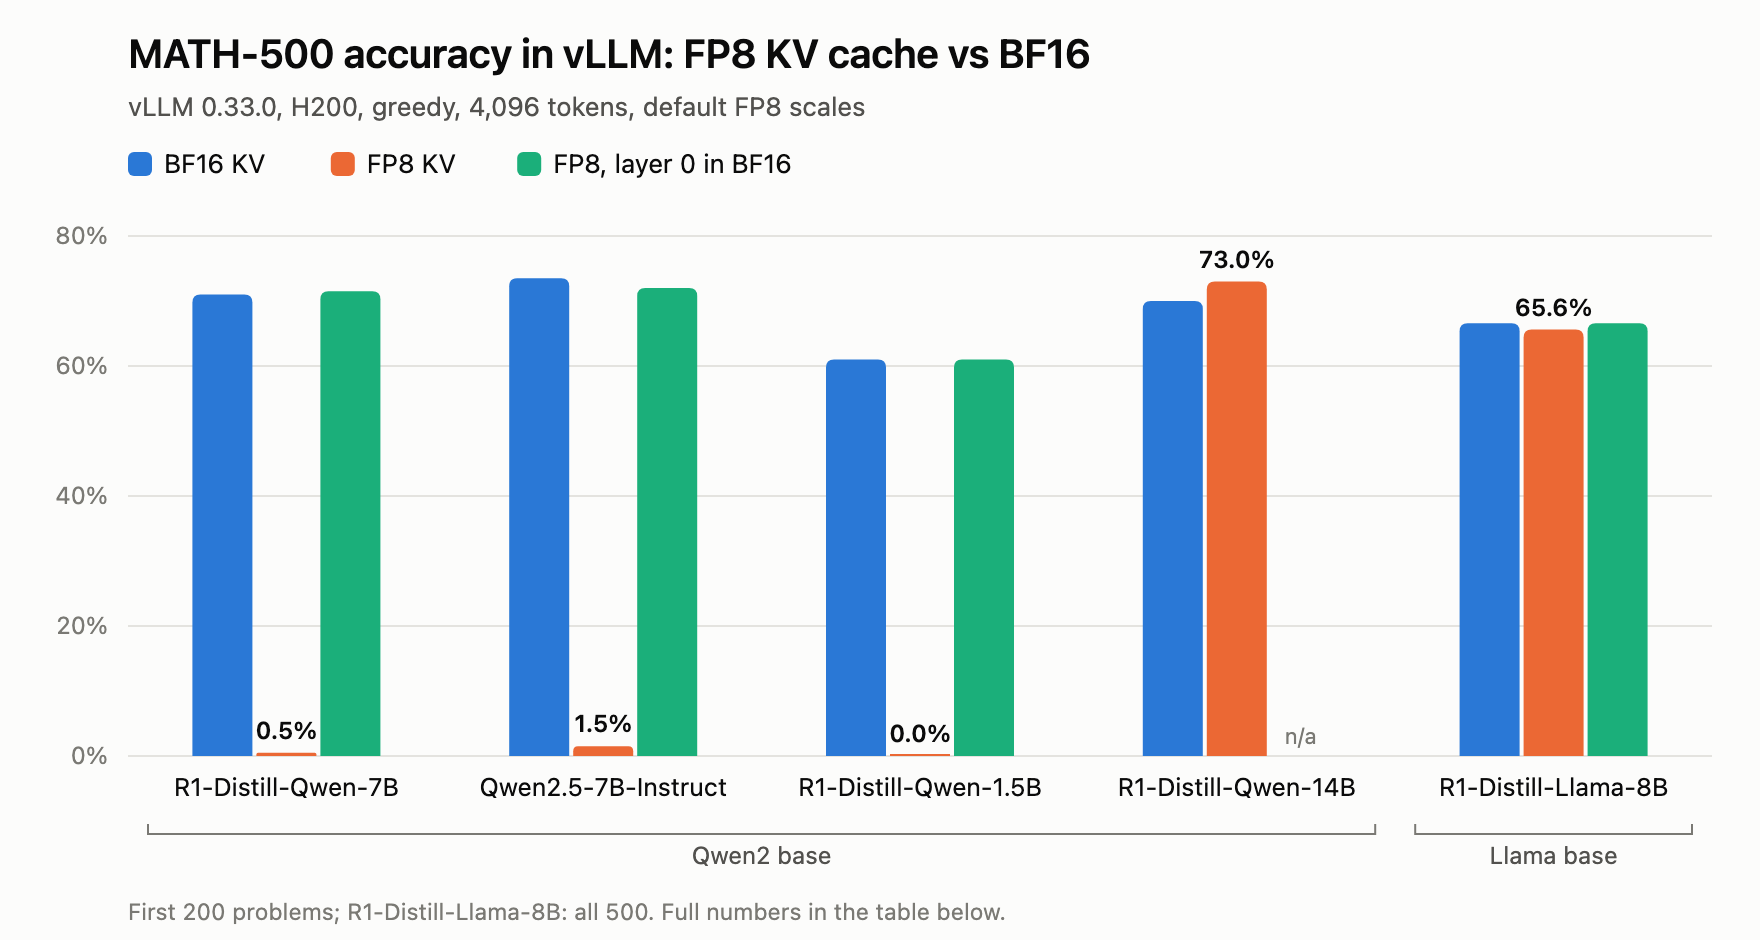
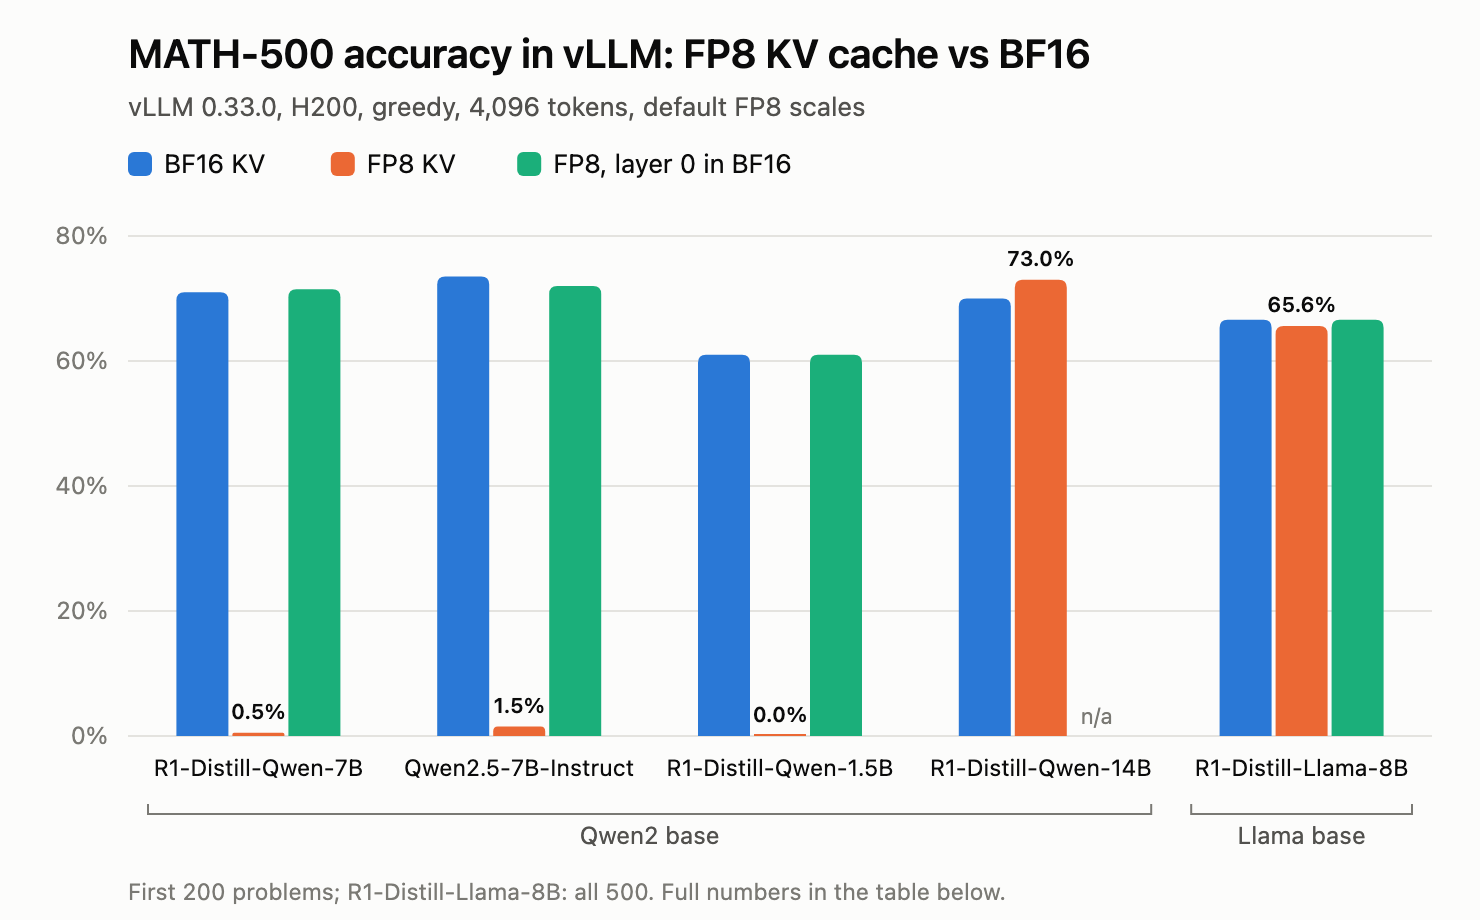
Chart at content width (1:1), smaller value labels

diff --git a/_tools/chart.py b/_tools/chart.py
@@ -22,11 +22,11 @@ TEXT = {
 }
 COLORS = ["#2a78d6", "#eb6834", "#1baf7a"]  # dataviz reference palette, slots 1-3 (validated, light)
 SURF, T1, T2, T3, GRID = "#fcfcfb", "#0b0b0b", "#52514e", "#7a7974", "#e4e3df"
-W, H = 880, 470
+W, H = 740, 460
 L, R, TOP, BOT = 64, 24, 118, 92
 PW, PH = W - L - R, H - TOP - BOT
 YMAX = 80
-BW, GAP = 30, 2
+BW, GAP = 26, 2
 FONT = "-apple-system, BlinkMacSystemFont, 'Segoe UI', 'PingFang SC', 'Noto Sans SC', Helvetica, Arial, sans-serif"
 
 
@@ -75,10 +75,10 @@ def svg(lang):
             out.append(bar(x, v, c, f"{m} · {t['series'][j]}: {v:.1f}%"))
             if j == 1:  # selective direct labels: the FP8 bars (the collapse) only
                 ly = min(y(v) - 7, y(0) - 7)
-                out.append(f'<text x="{x + BW / 2:.1f}" y="{ly:.1f}" font-size="12" font-weight="600" fill="{T1}" '
+                out.append(f'<text x="{x + BW / 2:.1f}" y="{ly:.1f}" font-size="10.5" font-weight="600" fill="{T1}" '
                            f'text-anchor="middle">{v:.1f}%</text>')
         cx = L + gw * i + gw / 2
-        out.append(f'<text x="{cx:.1f}" y="{y(0) + 20:.1f}" font-size="12.5" fill="{T1}" text-anchor="middle">'
+        out.append(f'<text x="{cx:.1f}" y="{y(0) + 20:.1f}" font-size="11.5" fill="{T1}" text-anchor="middle">'
                    f'{html.escape(m)}</text>')
     # base-model brackets under the labels
     for (a, b), name in (((0, 3), t["base"][0]), ((4, 4), t["base"][1])):
